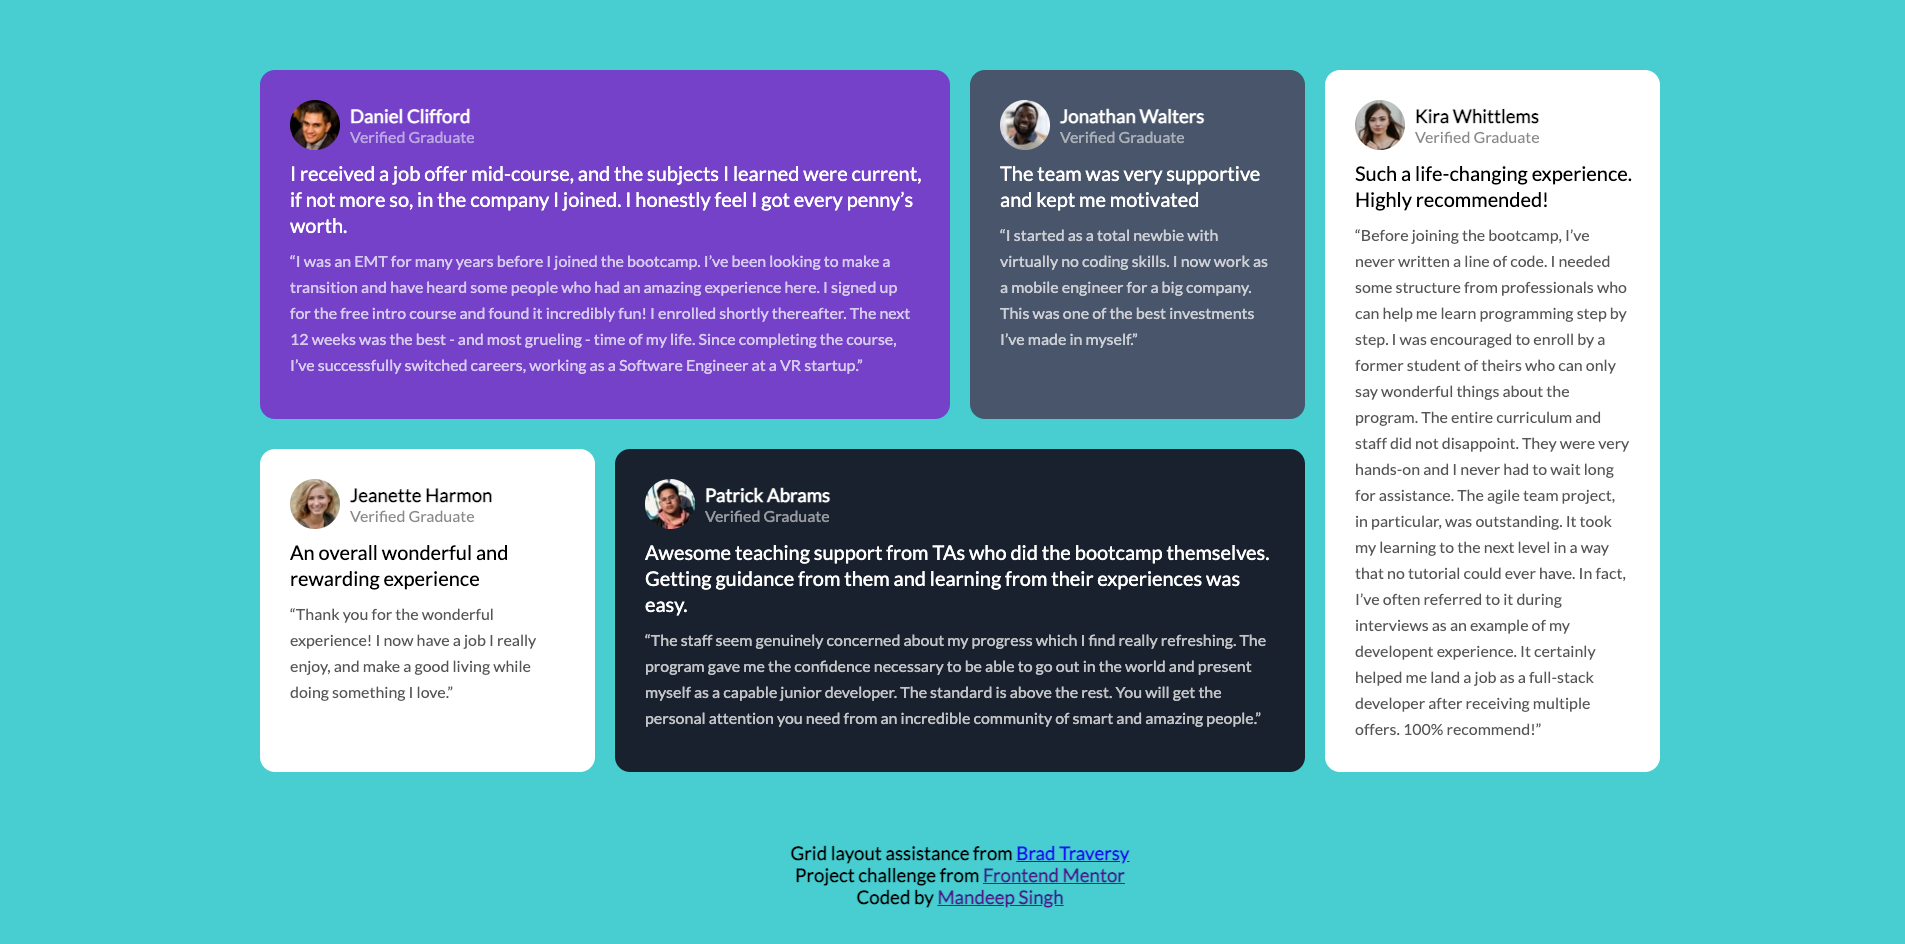
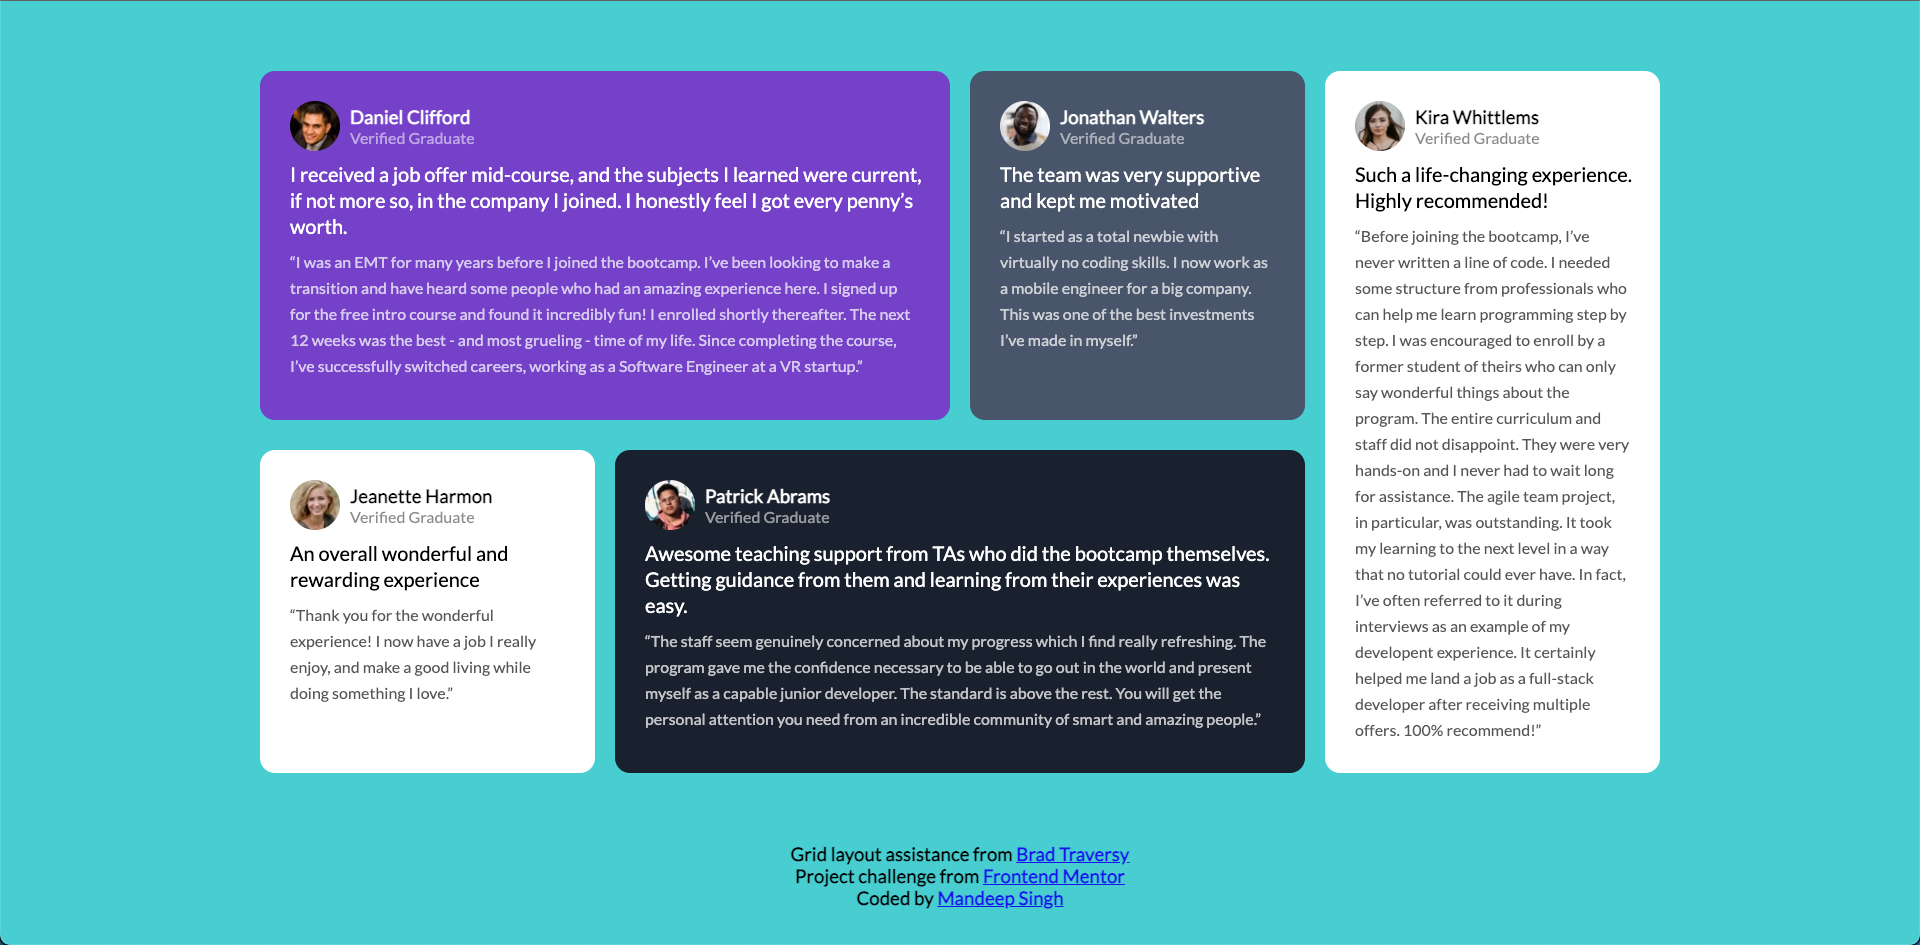
add README and screenshot

diff --git a/README.md b/README.md
@@ -1,0 +1,40 @@
+# **Learning CSS Grid**
+
+## <ins>Summary</ins>
+
+This is a web page built using CSS Grid as a challenge set by [Frontend Mentor](https://www.frontendmentor.io/challenges/testimonials-grid-section-Nnw6J7Un7). The grid layout assistance was provided by Brad Traversy's 'CSS Grid Crash Course' Youtube [video](https://youtu.be/0xMQfnTU6oo).
+
+The purpose of this website was to allow me to build up a better understanding of grid and it's fundamentals and then apply it to a project.
+
+---
+
+## <ins>Screenshot</ins>
+
+![App Screenshot](./screenshot.png)
+
+---
+
+## <ins>Tech Stack</ins>
+
+- HTML
+- CSS
+- Flexbox
+- Grid
+
+---
+
+## <ins>Hosted Version</ins>
+
+https://mandeep-s1ngh.github.io/learning-css-grid/
+
+---
+
+## <ins>Local Setup</ins>
+
+This site uses HTML & CSS only so feel free to clone the repo and then explore & play around with the code.
+
+1. To clone the repo, open up your terminal and run `git clone https://github.com/mandeep-s1ngh/learning-css-grid.git` - once you have it cloned, move the folder to your usual directory for projects (if necessary)
+
+2. You can then open up the folder in your code editor of choice and work on the files.
+
+**Tip** - If you use Visual Studio Code, I would recommend the [Live Server](https://marketplace.visualstudio.com/items?itemName=ritwickdey.LiveServer) extension which allows you to right click on the index.html file and open it with LiveServer so you can view the site in your browser. You can then make changes to the files and see the changes take effect without needing to refresh the page.
